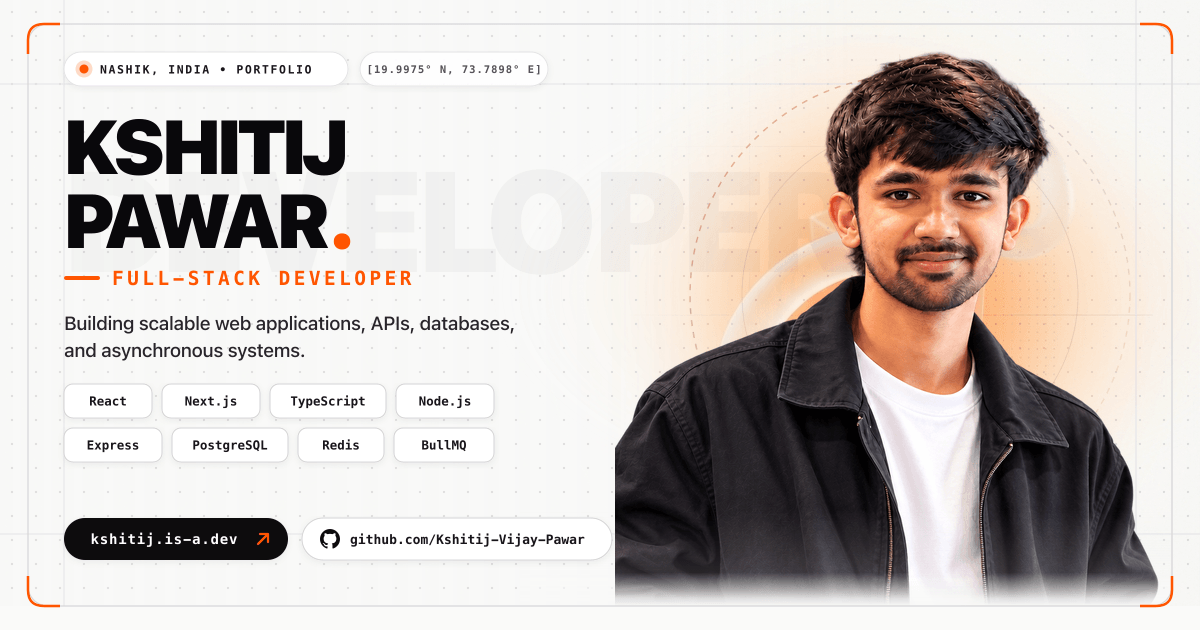
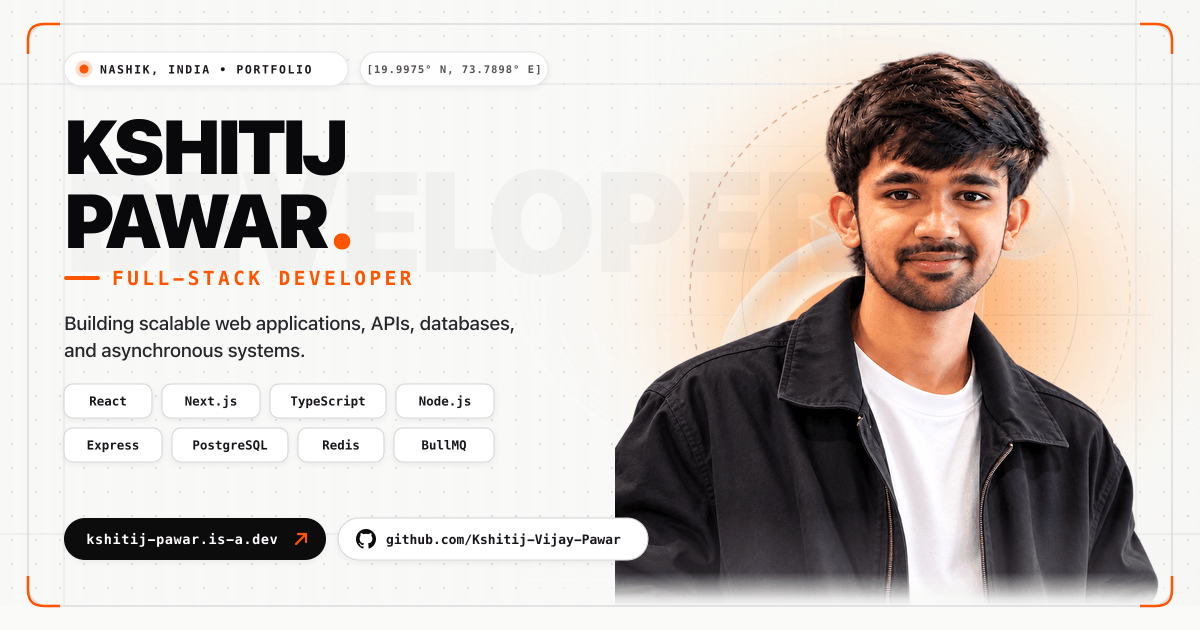
fix(seo): use live Vercel domain https://kshitij-pawar.is-a.dev for og:image and canonical URLs

Changed region(s): [[0.0617, 0.8143, 0.555, 0.9048]]

diff --git a/lib/seo.ts b/lib/seo.ts
@@ -3,14 +3,19 @@ import { PROFILE } from "@/data/profile";
 import { PROJECTS, type Project } from "@/app/data/projects";
 
 export const SITE_URL = (
-  process.env.NEXT_PUBLIC_SITE_URL || "https://kshitij.is-a.dev"
+  process.env.NEXT_PUBLIC_SITE_URL ||
+  (process.env.VERCEL_PROJECT_PRODUCTION_URL
+    ? `https://${process.env.VERCEL_PROJECT_PRODUCTION_URL}`
+    : "https://kshitij-pawar.is-a.dev")
 ).replace(/\/+$/, "");
 
 export const METADATA_BASE_URL = (
   process.env.NEXT_PUBLIC_SITE_URL ||
-  (process.env.NODE_ENV === "development"
-    ? "http://localhost:3000"
-    : "https://kshitij.is-a.dev")
+  (process.env.VERCEL_PROJECT_PRODUCTION_URL
+    ? `https://${process.env.VERCEL_PROJECT_PRODUCTION_URL}`
+    : process.env.NODE_ENV === "development"
+      ? "http://localhost:3000"
+      : "https://kshitij-pawar.is-a.dev")
 ).replace(/\/+$/, "");
 
 export const SITE_NAME = "Kshitij Pawar | Full-Stack Developer";
@@ -24,7 +29,6 @@ export const DEFAULT_OG_IMAGE_ALT =
 
 export const VERIFIED_SAME_AS = [
   "https://github.com/Kshitij-Vijay-Pawar",
-  "https://kshitij.is-a.dev",
   "https://kshitij-pawar.is-a.dev",
 ];
 
